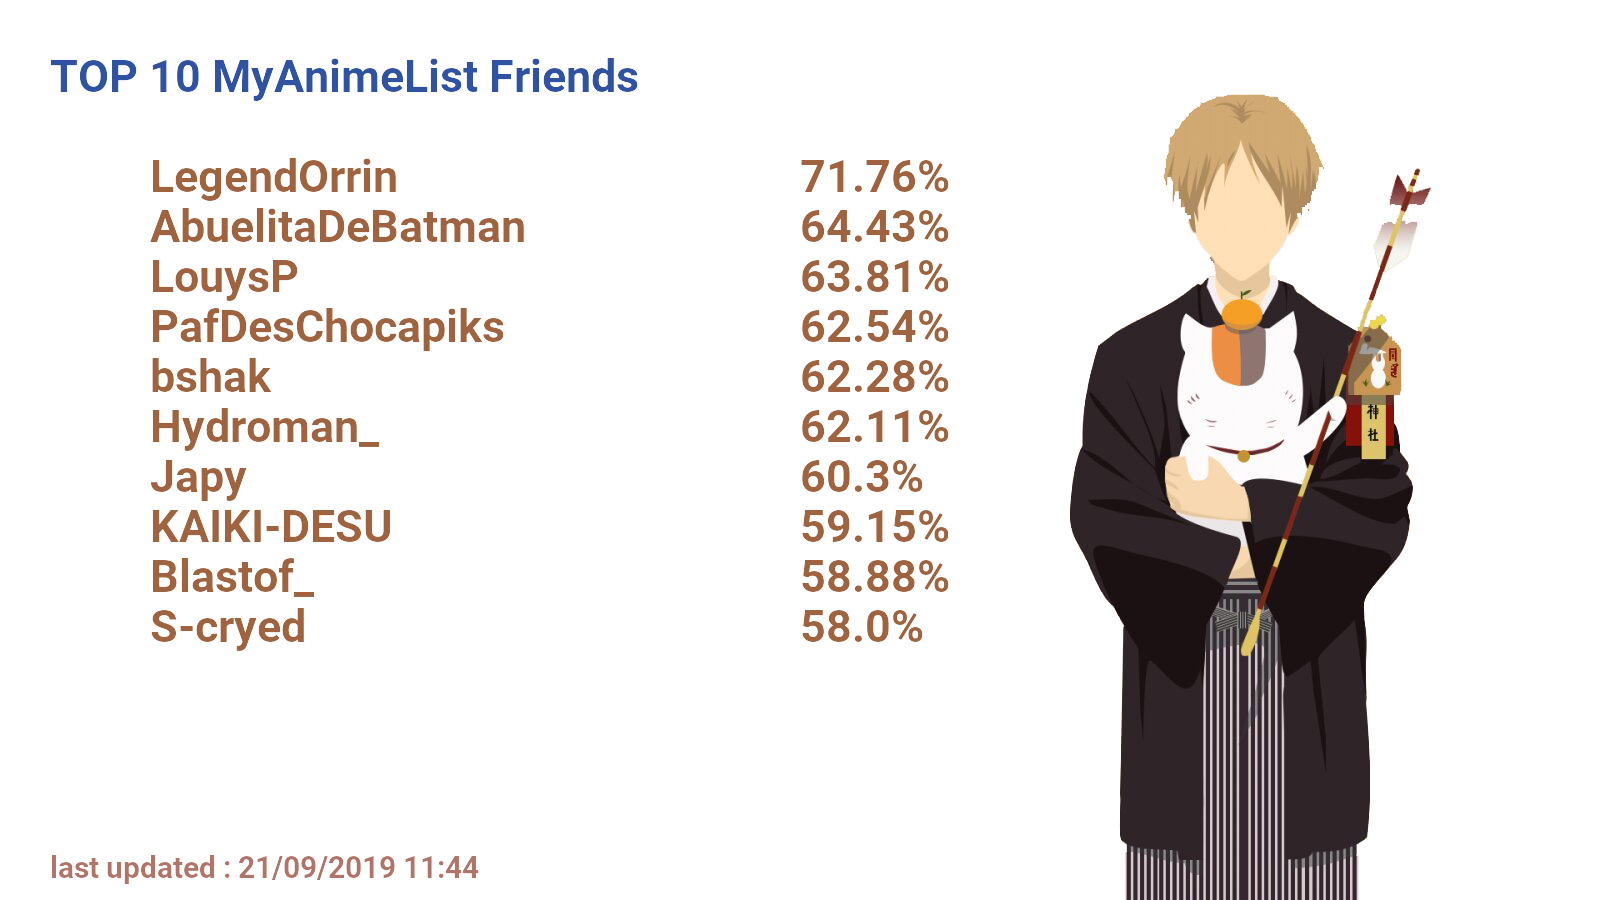
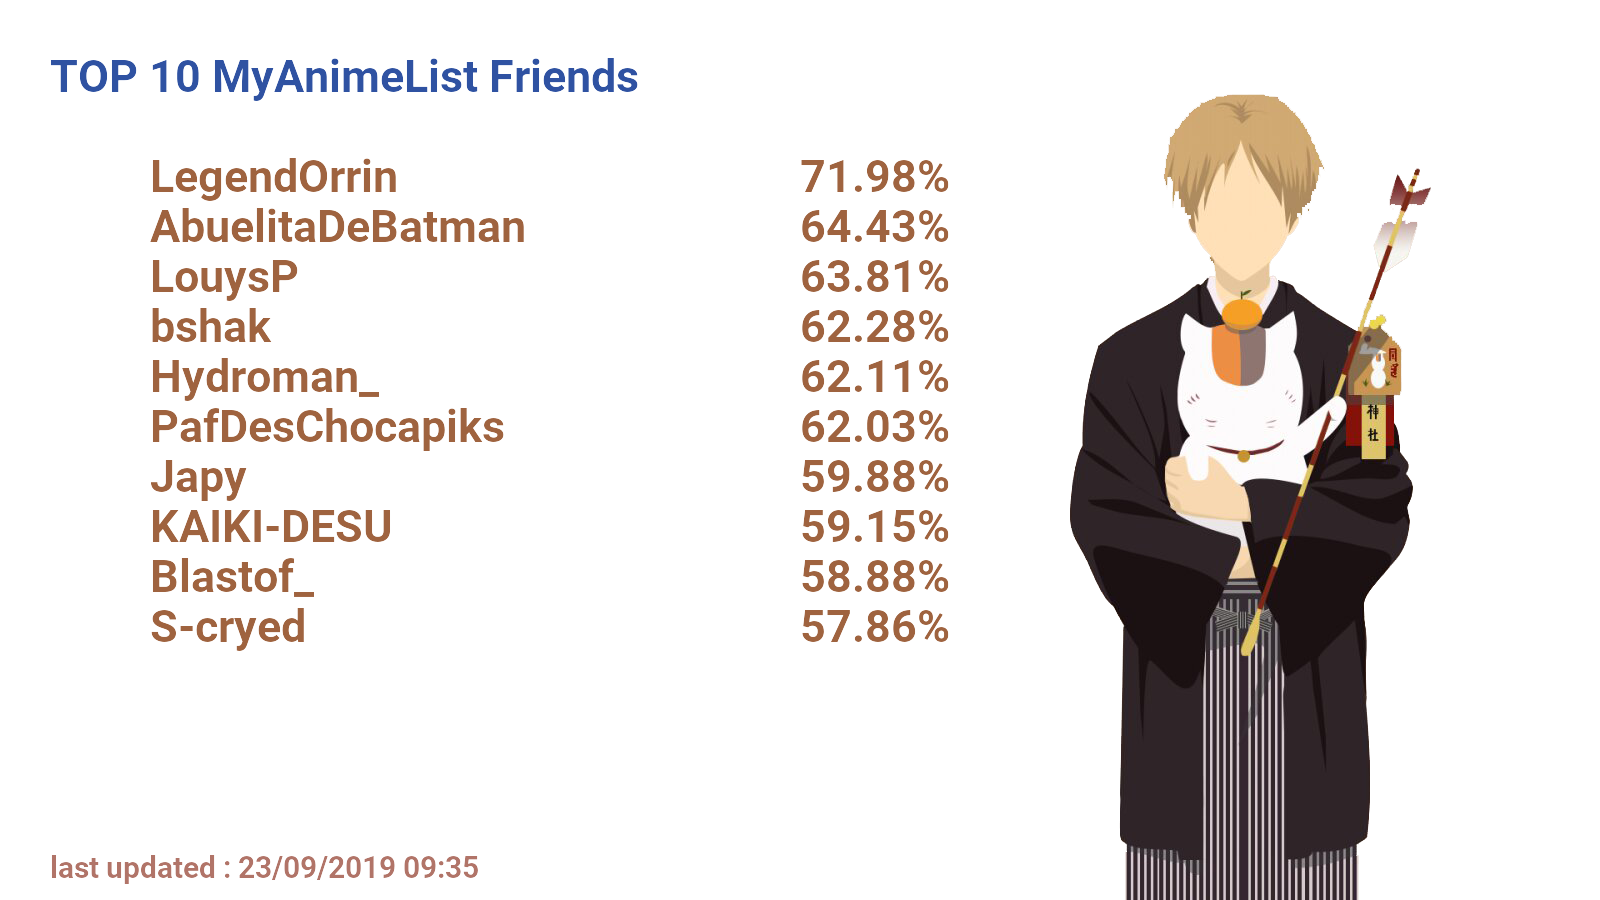
updates

diff --git a/mal-img-affinity.py b/mal-img-affinity.py
@@ -54,45 +54,48 @@ results = {}
 # create a list of friend names
 friend_names = [f["username"] for f in ufriends["friends"]]
 
-while len(friend_names) > 0: # while the list isn't empty
-    friend = friend_names[0] # get the first name
-    print("Comparing {}'s list to {}...".format(username, friend))
-    try:
-        # calculate affinity
-        affinity, shared = af.calculate_affinity(friend, service="MyAnimeList")
-        # save the result
-        results[friend] = round(affinity, 2)
-        # remove that friend from the list
-        friend_names.remove(friend)
-    except RateLimitExceededError:
-        print("We exceeded the rate limit!")
-        # wait for a while and then try again
-        time.sleep(10)
-        continue
-    except NoAffinityError as ne:
-        print("{}".format(ne))
-        # ignore this user
-        friend_names.remove(friend)
-        continue
-    except InvalidUserError:
-        print("Couldnt download list for {}. This may be because their list is private.".format(friend))
-        # ignore this user
-        friend_names.remove(friend)
-        continue
-    except DecimalException:
-        # see here:
-        # https://github.com/erkghlerngm44/aniffinity/blob/master/aniffinity/calcs.py#L32
-        # this can happen when a user has no ratings or rates everything the same
-        print("Division by zero error while trying to process list for {}...".format(friend))
-        # ignore this user
-        friend_names.remove(friend)
-        continue
-    except Exception as e:
-        # exit on any other error
-        print("Exception for {}: `{}`".format(friend, e))
-        break
+#while len(friend_names) > 0: # while the list isn't empty
+#    friend = friend_names[0] # get the first name
+#    print("Comparing {}'s list to {}...".format(username, friend))
+#    try:
+#        # calculate affinity
+#        affinity, shared = af.calculate_affinity(friend, service="MyAnimeList")
+#        # save the result
+#        results[friend] = round(affinity, 2)
+#        # remove that friend from the list
+#        friend_names.remove(friend)
+#    except RateLimitExceededError:
+#        print("We exceeded the rate limit!")
+#        # wait for a while and then try again
+#        time.sleep(10)
+#        continue
+#    except NoAffinityError as ne:
+#        print("{}".format(ne))
+#        # ignore this user
+#        friend_names.remove(friend)
+#        continue
+#    except InvalidUserError:
+#        print("Couldnt download list for {}. This may be because their list is private.".format(friend))
+#        # ignore this user
+#        friend_names.remove(friend)
+#        continue
+#    except DecimalException:
+#        # see here:
+#        # https://github.com/erkghlerngm44/aniffinity/blob/master/aniffinity/calcs.py#L32
+#        # this can happen when a user has no ratings or rates everything the same
+#        print("Division by zero error while trying to process list for {}...".format(friend))
+#        # ignore this user
+#        friend_names.remove(friend)
+#        continue
+#    except Exception as e:
+#        # exit on any other error
+#        print("Exception for {}: `{}`".format(friend, e))
+#        break
 
-newresult = OrderedDict(sorted(results.items(), key=lambda t: t[1], reverse=True))
+#newresult = OrderedDict(sorted(results.items(), key=lambda t: t[1], reverse=True))
+# use the following line to have rapid result (comment line 57 to 95)
+newresult = OrderedDict([('LegendOrrin', 71.98), ('AbuelitaDeBatman', 64.43), ('LouysP', 63.81), ('bshak', 62.28), ('Hydroman_', 62.11), ('PafDesChocapiks', 62.03), ('Japy', 59.88), ('KAIKI-DESU', 59.15), ('Blastof_', 58.88), ('S-cryed', 57.86), ('Daante_', 57.62), ('Taikuhatsu', 56.31), ('mcd_78', 55.85), ('Iiiik', 53.66), ('Tenshibana', 53.46), ('anaesan', 53.21), ('HaarWyvern', 53.04), ('Ruqaa', 52.61), ('Wilump', 52.59), ('tristan-h', 51.59), ('Iwolf441', 51.58), ('Naou_', 51.56), ('Souba', 51.06), ('K0NAMI', 50.26), ('21stCenturyBoy_', 50.07), ('Kreya29', 49.93), ('6lk6', 49.65), ('Faith_Navii', 49.16), ('Sakutarou', 48.79), ('itsNotMark', 48.15), ('TuyNOM', 48.11), ('Loleyke', 47.55), ('ezkeeks', 46.93), ('KiSsxShoT', 46.8), ('Noodle_June', 46.69), ('YelloWCl3ar', 46.56), ('ImRenaud', 46.37), ('JojoYabuki', 46.06), ('DatRandomDude', 46.03), ('HaremOverlord', 46.0), ('Afloo', 45.59), ('arthuurop', 44.63), ('Anime-ETF', 44.3), ('darkneff', 44.09), ('DracGaki', 44.02), ('KingDespe', 43.31), ('Zetsubo22', 43.2), ('Laraxs', 42.72), ('GamesRet', 42.7), ('Azuki-ojou', 42.41), ('DesnomLumerian', 41.84), ('Vizioz', 41.46), ('ProfZex', 41.16), ('Hamou', 40.73), ('BenjaminJunior', 40.7), ('paraparaship', 40.51), ('Mangamer', 40.14), ('Kiszaw', 39.38), ('FaliaS', 39.23), ('Kami_yar0', 39.06), ('Benku', 39.06), ('Djidji', 39.03), ('Azdo0m', 39.02), ('Aniki91', 38.65), ('-Nadrel-', 38.46), ('Charlotte1412', 37.78), ('Shiratoria', 37.69), ('Sifedo', 37.51), ('spacecowboy', 36.81), ('FanTaine', 35.97), ('Sreyso', 34.99), ('bAbyLoNE', 34.9), ('LupinYabuki', 32.91), ('Hydraxsfull', 32.87), ('infinico', 32.82), ('Saeba_Ryou', 32.74), ('Jakedax', 32.19), ('BlackTeaLady', 31.87), ('pr4ty', 30.51), ('Matism', 30.0), ('Ha0', 28.8), ('Laeweth', 28.8), ('rek94', 28.37), ('Henatsuka', 24.18), ('firefoxy333', 22.18), ('Apichua', 21.36), ('cynic15m', 20.89), ('Ahmed_paint5', 19.17), ('Radukaii', 17.47), ('Ragnos055', 17.22), ('_r_Felipe', 17.06), ('Chifie', 17.04), ('ProxyLain', 14.98), ('Korsa-', 12.53), ('TopherC17', 11.65), ('QuentiNeicigam', 8.63), ('Lolmortlilol', -3.21)])
+
 #for key in range(11,len(ufriends["friends"])):
 #    del newresult[key]
 print(newresult)
